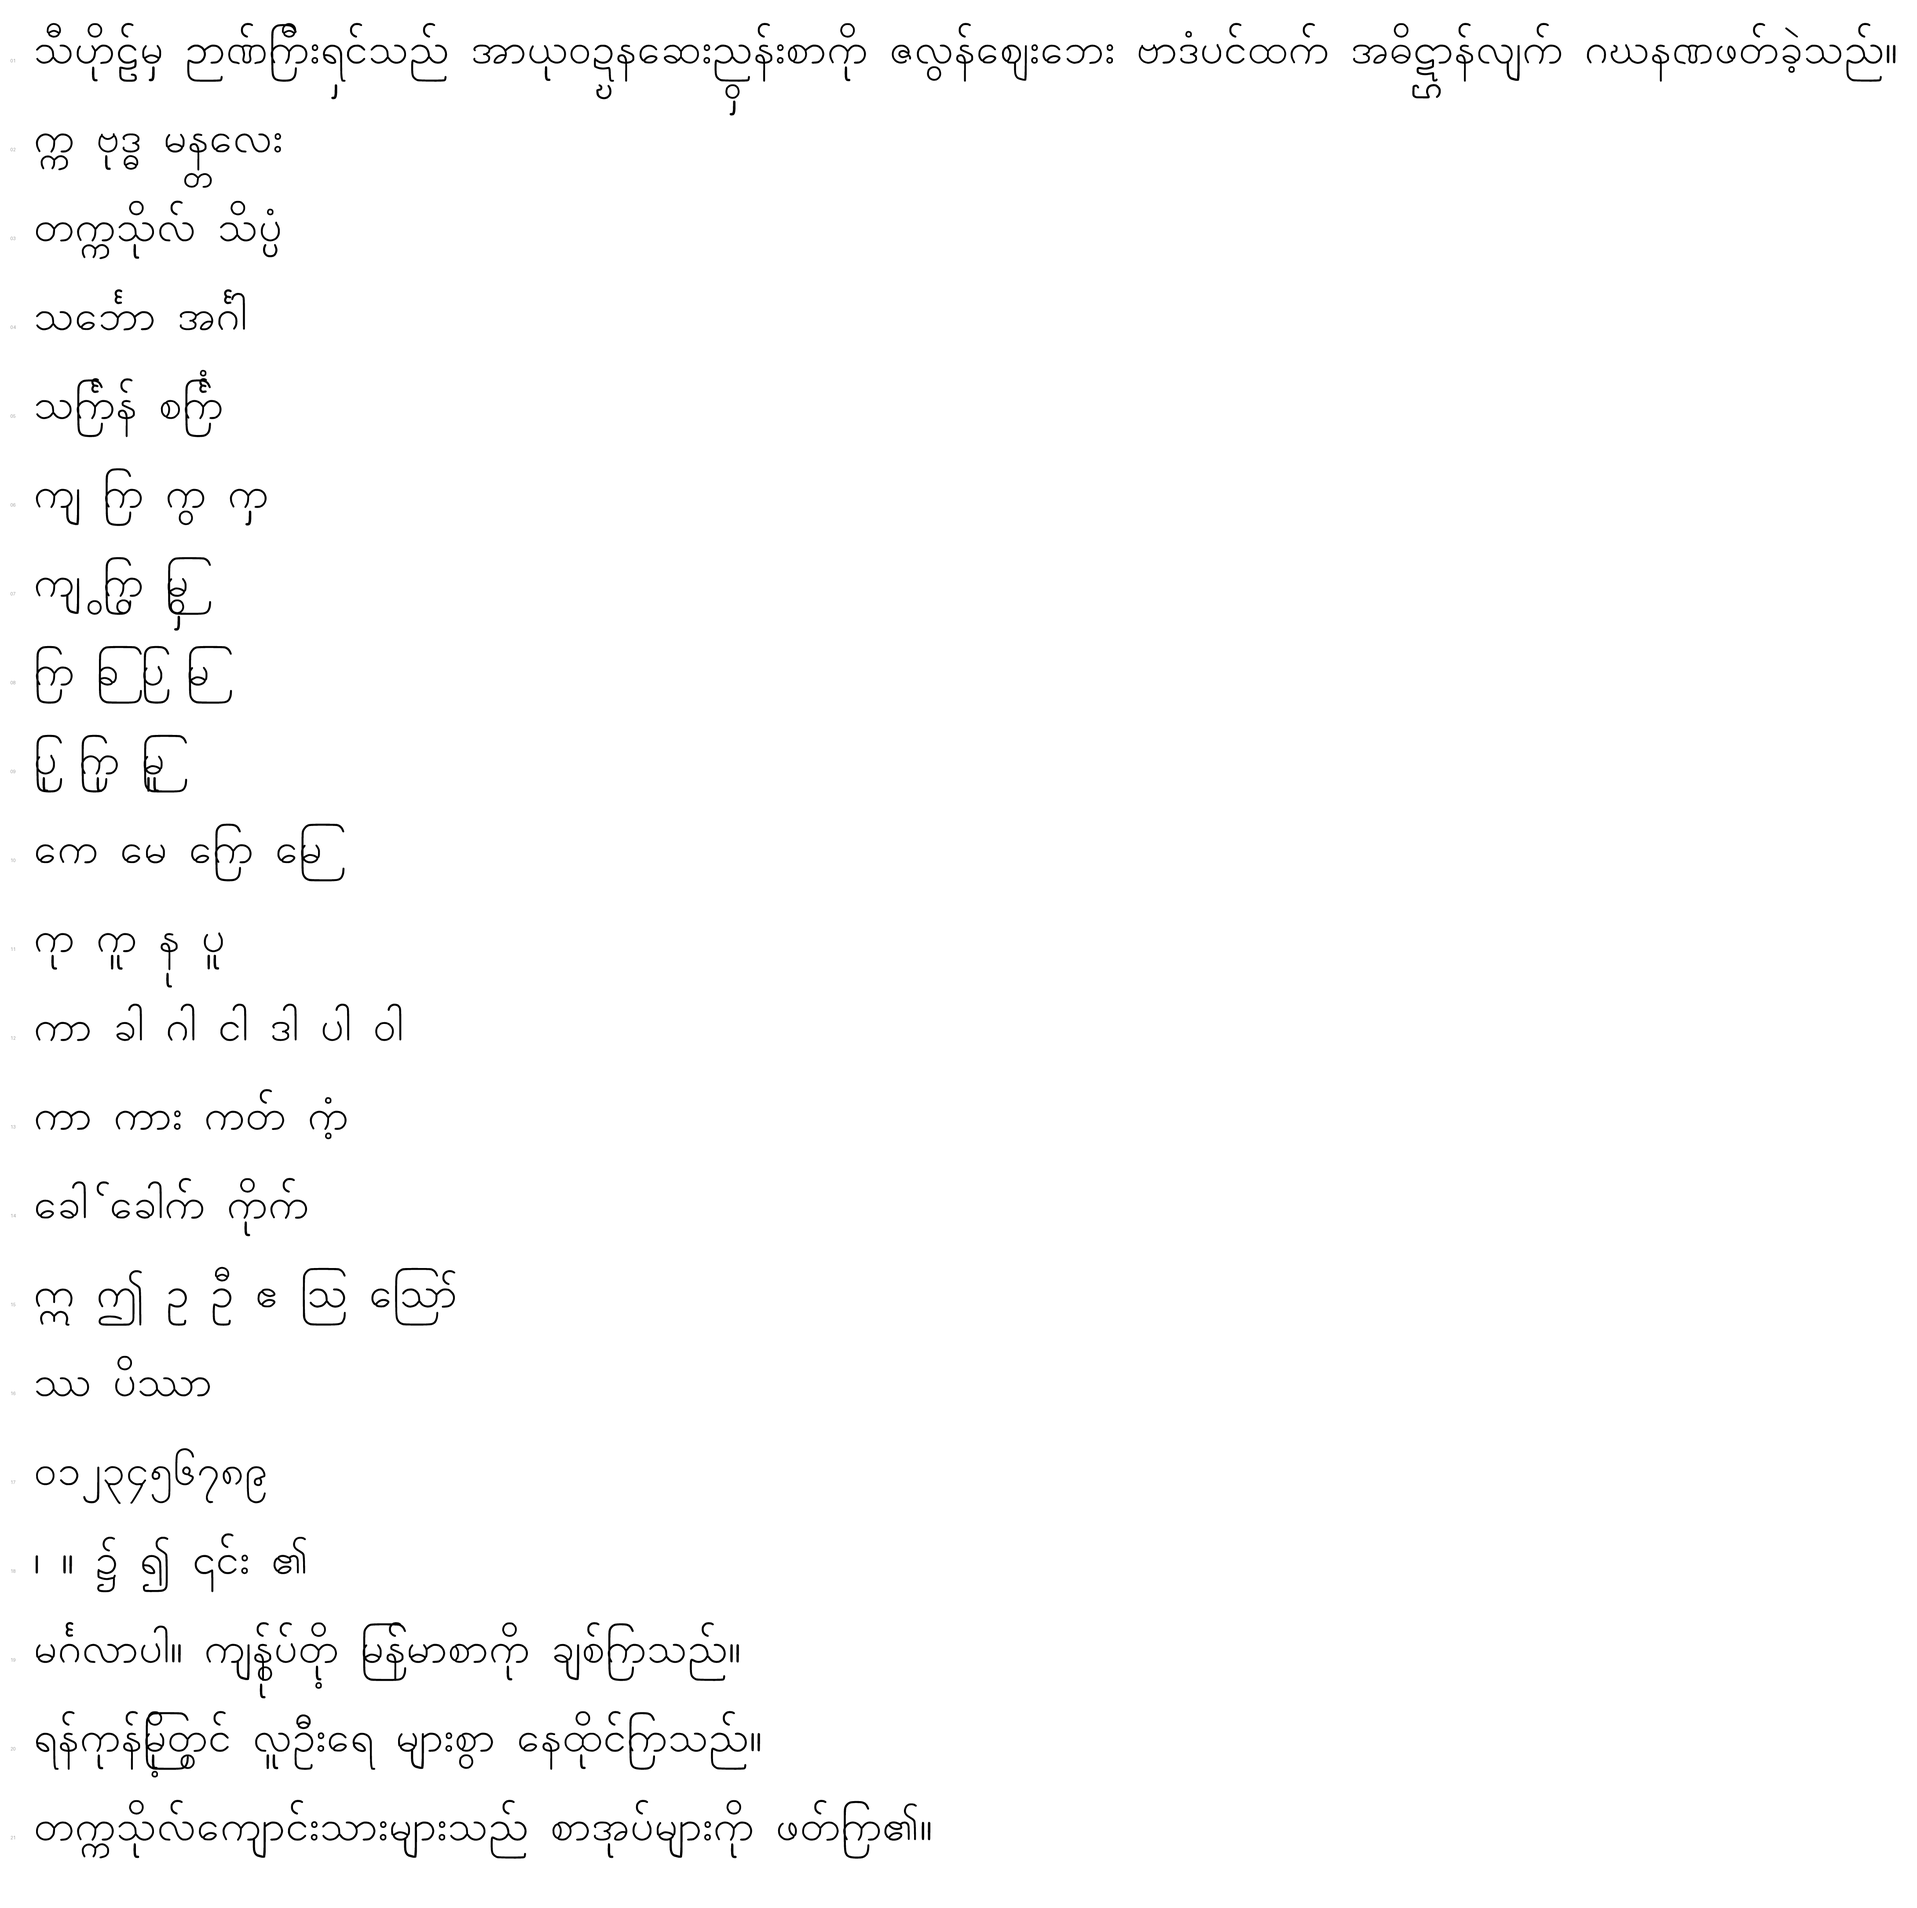
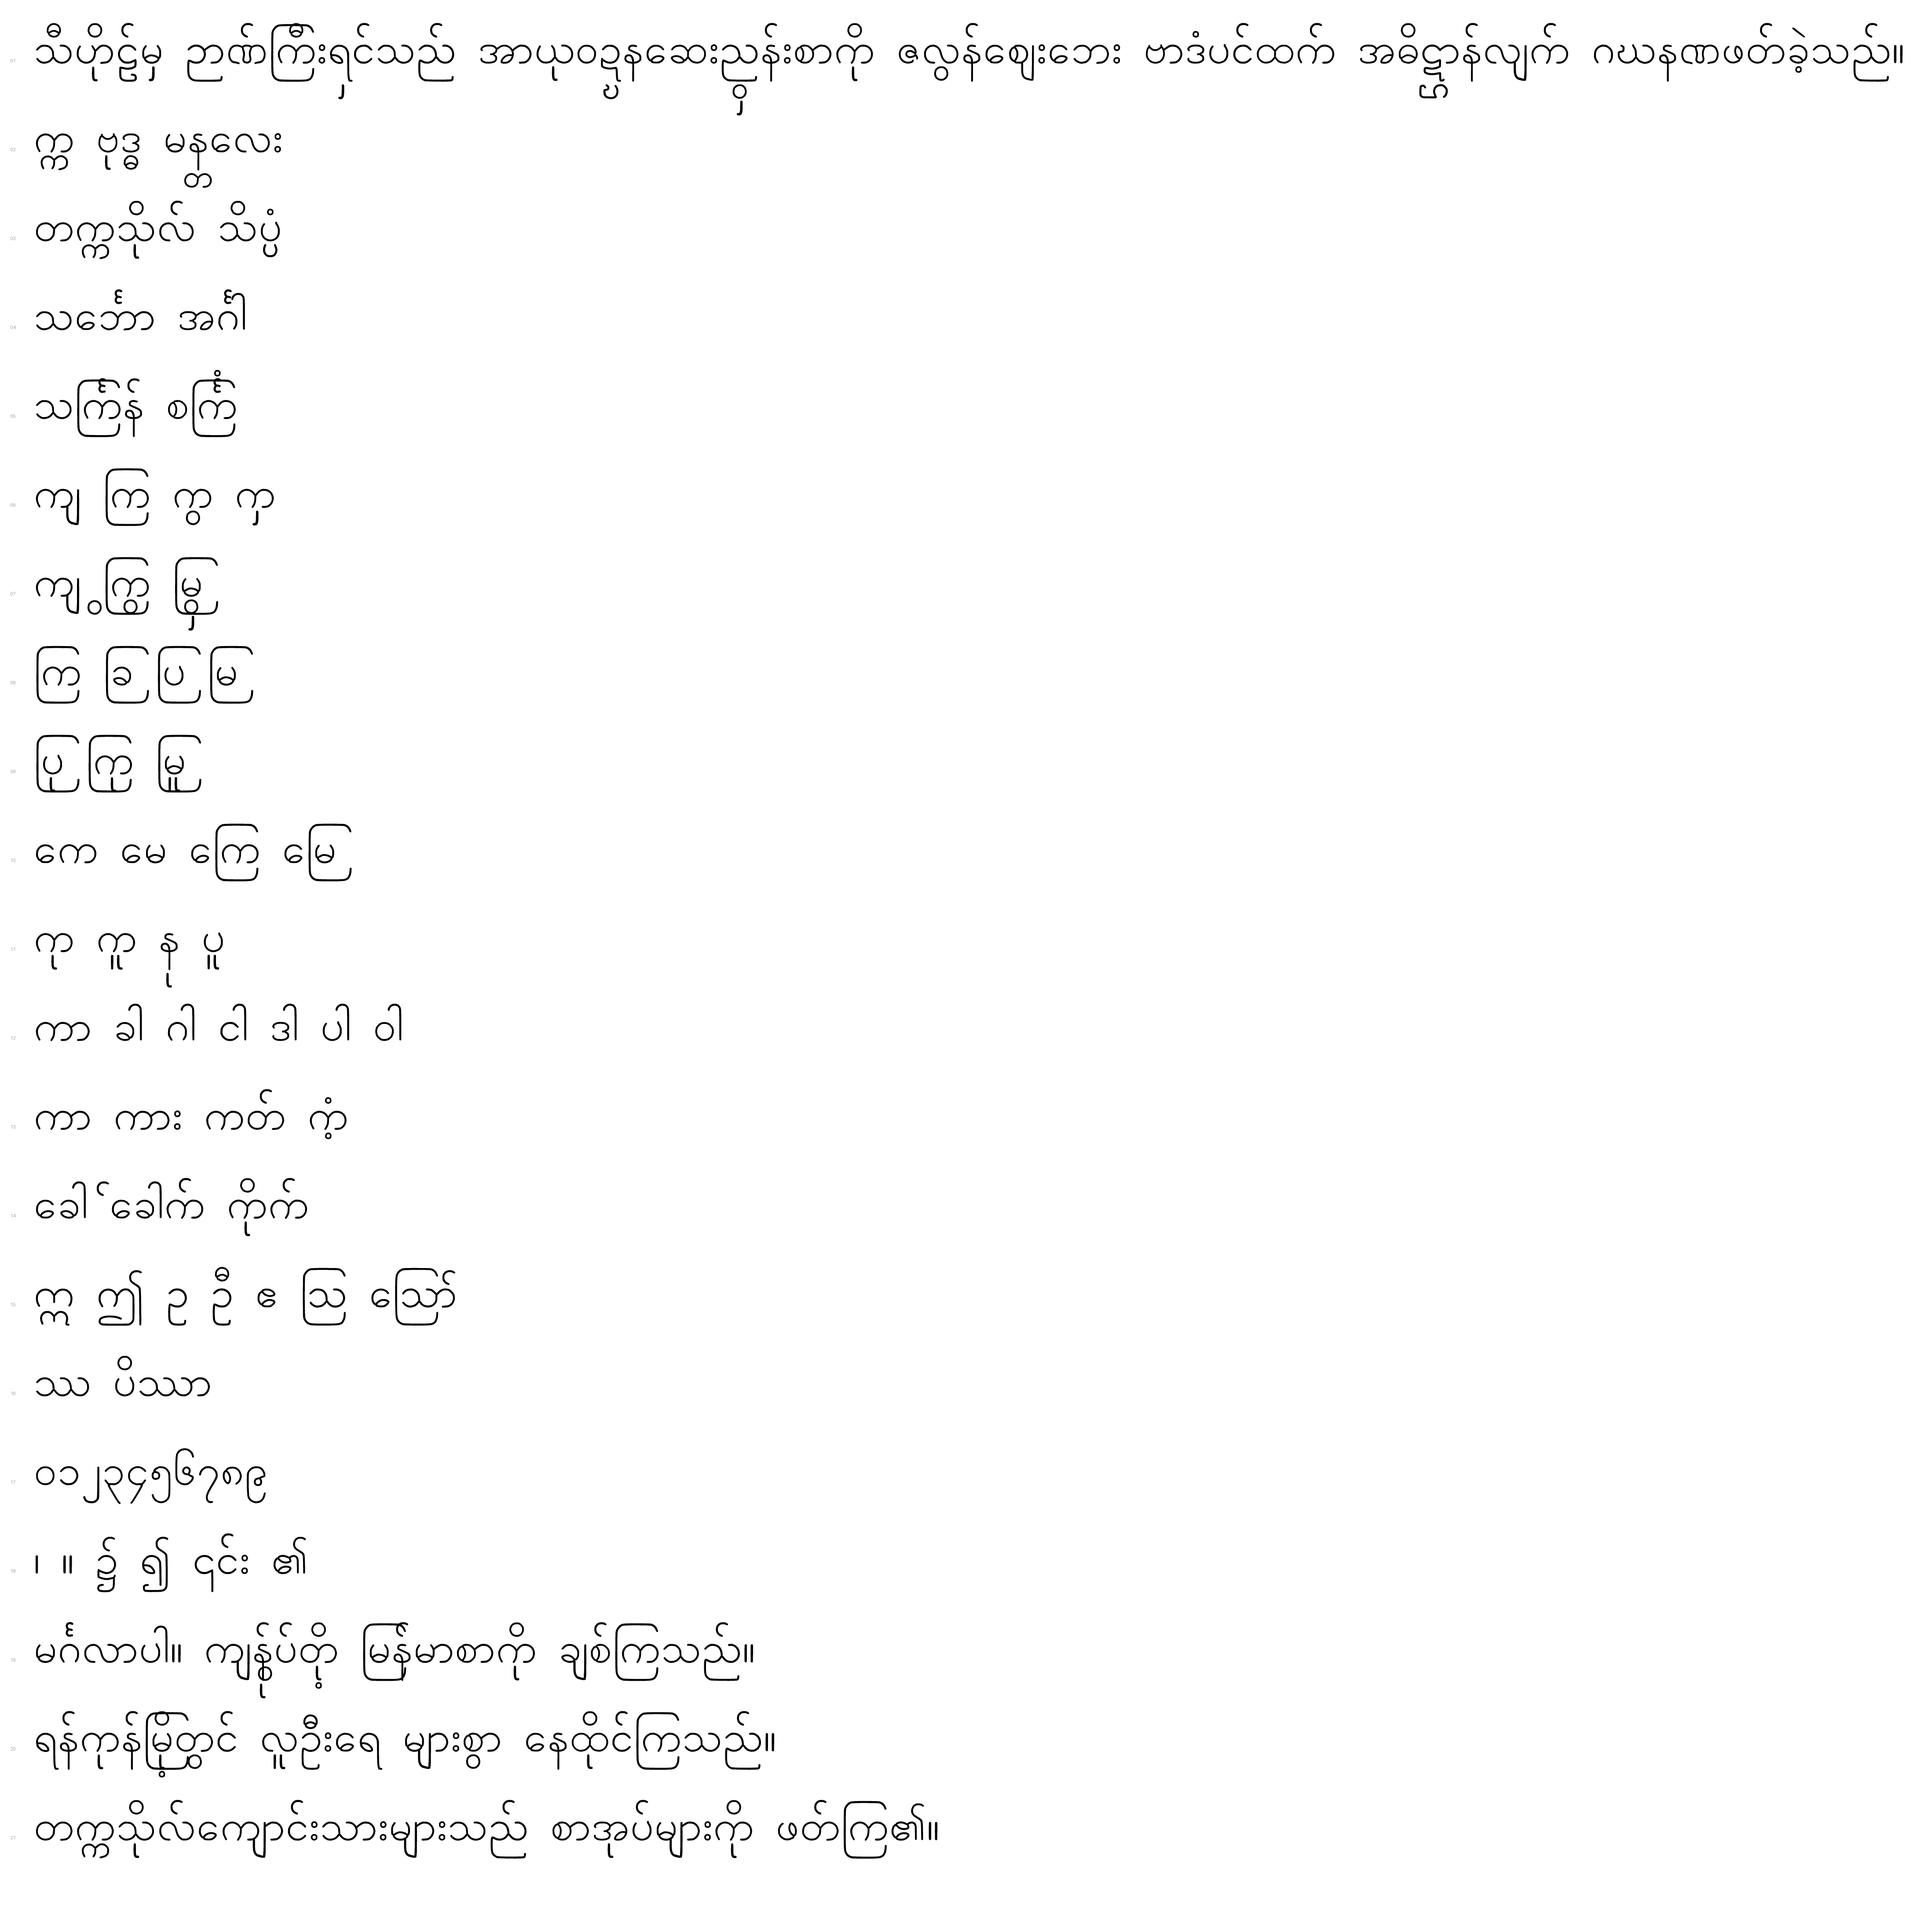
Fix broken medial-ra rendering: the base fell outside the wrap
Reported against the gallery preview: ကြီး and မြွှေ rendered with the
consonant sitting on the wrap's left stem and the vowel sign stranded on
the wrap's corner. Three compounding bugs, all in how the wrapping medial
ra ြ was treated:

1. Wrap signs were forced to zero advance. That advance is not decoration:
   it is what moves the pen past the wrap's left stem so the base lands
   INSIDE the wrap (Padauk gives U+103C 172/1024 for exactly this). With
   zero, every base stacked on top of the stem. Wrap signs now keep their
   advance, and hand-drawn projects that supply none get an estimate from
   the wrap's own proportions.

2. Wrap signs were then classified as GDEF marks — which looked right, and
   is what Padauk does, but HarfBuzz zeroes the advance of GDEF marks, so
   it silently reintroduced bug 1. They are spacing glyphs and are now
   classified as bases.

3. The `pres` rule that swaps in the wide wrap used a hard-coded list of
   "wide" letters that did not include ka, so ကြ chose the narrow wrap and
   က overflowed it — which is what pushed the vowel onto the corner.
   Whether a letter fits is a property of the drawing, not of the script,
   so it is now MEASURED: a base needs the wide wrap when its ink ends
   past the wrap's reach. For Myanmar Glyph Sans that selects 113 bases,
   ka included.

Verified against Padauk with HarfBuzz: identical advances (168 / 979 /
254) and the vowel now sits over the consonant inside the wrap. Both
[…]

diff --git a/pipeline/json_to_ufo.py b/pipeline/json_to_ufo.py
@@ -126,10 +126,15 @@ BOTTOM_MARKS = {
 
 BASE_NAMES = {f"{n}-myanmar" for _, n in CONSONANTS} | {"greatSa-myanmar"}
 
-# Signs that wrap around their base (medial ra): keep the sketched
-# coordinates (they are drawn around the guide base at the origin) and take
-# no advance — the engine draws the base into the wrap.
+# Signs that wrap around their base (medial ra). Their sketched coordinates
+# are kept as drawn, and their advance is SMALL BUT POSITIVE: it is what
+# moves the pen past the wrap's left stem so the base lands inside the
+# wrap. Zero would stack the base on top of that stem (Padauk gives U+103C
+# an advance of 172/1024 for exactly this reason).
 WRAP_SIGNS = {"medialRa-myanmar", "medialRa-myanmar.wide"}
+# fraction of the wrap's ink width that sits left of the base — only used
+# when a project supplies no advance; reproduces Padauk's proportion
+WRAP_ADVANCE_RATIO = 0.30
 
 # Anchor names the studio may store per glyph ("anchors": {name: [x, y]}).
 KNOWN_ANCHORS = {"top", "bottom", "_top", "_bottom"}
@@ -499,6 +504,9 @@ def build_ufo(project, out_dir, width_scale=1.0, style_name=None,
 
     drawn = []
     categories = {}   # glyph -> GDEF class, written as public.openTypeCategories
+    ink_right = {}    # glyph -> right edge of its ink, for the pres measurement
+    advances = {}     # glyph -> advance width
+    base_glyphs = []  # glyphs that carry top/bottom anchors
     for name, data in project.get("glyphs", {}).items():
         if name == "virama-myanmar":
             # U+1039 is invisible in rendered Burmese — ignore any sketched
@@ -550,11 +558,13 @@ def build_ufo(project, out_dir, width_scale=1.0, style_name=None,
         if cp:
             g.unicode = cp
 
-        # Non-spacing marks and the wrapping medial ra never advance the pen:
-        # the shaper positions them onto the base. A stored advance is
-        # ignored for them rather than double-spacing every syllable.
-        if is_mark or name in WRAP_SIGNS:
+        # Non-spacing marks never advance the pen: the shaper positions them
+        # onto the base, and a stored advance would double-space every
+        # syllable. Wrapping signs DO advance, just barely — see WRAP_SIGNS.
+        if is_mark:
             adv = 0
+        elif not adv and name in WRAP_SIGNS:
+            adv = max(1, round((x_max - x_min) * WRAP_ADVANCE_RATIO))
         elif not adv:
             # None, or a stored 0 on a spacing glyph that has ink: a glyph
             # with visible outlines must move the pen or it overprints its
@@ -590,6 +600,7 @@ def build_ufo(project, out_dir, width_scale=1.0, style_name=None,
                                   and is_myanmar_base):
             anchor("top", cx, max(y_max, BODY) + 40)
             anchor("bottom", cx, min(y_min, 0) - 40)
+            base_glyphs.append(name)
         elif name in TOP_MARKS:
             anchor("_top", cx, y_min - 20)
             anchor("top", cx, y_max + 20)
@@ -611,11 +622,15 @@ def build_ufo(project, out_dir, width_scale=1.0, style_name=None,
             anchor(anchor_name, 0, 0)
 
         # GDEF class: non-spacing marks are "mark", everything else "base".
-        # Stated explicitly so spacing signs (Mc: aa, medial ya, …) are not
-        # mistaken for marks by the shaper. The wrapping medial ra joins the
-        # marks — it takes no advance and the base renders inside its wrap,
-        # which is how Padauk classifies it too.
-        categories[name] = "mark" if (is_mark or name in WRAP_SIGNS) else "base"
+        # Stated explicitly so spacing signs (Mc: aa, medial ya …) are not
+        # mistaken for marks by the shaper.
+        #
+        # The wrapping medial ra must NOT be a mark here: HarfBuzz zeroes the
+        # advance of GDEF marks, and its small advance is exactly what moves
+        # the base inside the wrap.
+        categories[name] = "mark" if is_mark else "base"
+        ink_right[name] = x_max
+        advances[name] = adv
         drawn.append(name)
 
     # The blwf/rphf rules consume U+1039 VIRAMA, but the studio never asks
@@ -646,7 +661,9 @@ def build_ufo(project, out_dir, width_scale=1.0, style_name=None,
     if kerning:
         font.kerning = kerning
 
-    font.features.text = generate_features(set(drawn))
+    font.features.text = generate_features(
+        set(drawn), wide_bases=measure_wide_bases(base_glyphs, ink_right,
+                                                  advances))
 
     # PostScript production names: the friendly source names carry hyphens,
     # which are not valid in shipped glyph names. ufo2ft renames at compile
@@ -674,7 +691,28 @@ def build_ufo(project, out_dir, width_scale=1.0, style_name=None,
 # OpenType feature generation (mym2 starter rules)
 # ---------------------------------------------------------------------------
 
-def generate_features(drawn):
+def measure_wide_bases(base_glyphs, ink_right, advances):
+    """Which base letters overflow the narrow medial-ra wrap?
+
+    Medial ra ြ wraps around the letter that follows it, and the letter
+    only fits if the wrap reaches past it. Rather than hard-code which
+    letters are "wide" — which is a property of the drawing, not of the
+    script — measure it: the base sits at the wrap's advance, so it fits
+    when its ink ends before the wrap's ink does.
+
+    Returns the base glyphs that need the wide variant, or None when the
+    font has no narrow ra to compare against.
+    """
+    narrow = "medialRa-myanmar"
+    if narrow not in ink_right:
+        return None
+    wrap_reach = ink_right[narrow]
+    base_start = advances.get(narrow, 0)
+    return sorted(name for name in base_glyphs
+                  if base_start + ink_right.get(name, 0) > wrap_reach - 20)
+
+
+def generate_features(drawn, wide_bases=None):
     """Emit only rules whose glyphs were actually drawn.
 
     Rules are written before any script statement so they register under
@@ -710,13 +748,17 @@ def generate_features(drawn):
         lines.append("} rphf;")
         lines.append("")
 
-    # pres: wide medial-ra in front of wide bases
-    wide_bases = [
-        f"{n}-myanmar" for n in
-        ("kha", "gha", "ca", "cha", "jha", "nnya", "ttha", "ddha", "nna",
-         "ta", "tha", "dha", "na", "bha", "ma", "ya", "la", "sa", "ha", "a")
-        if f"{n}-myanmar" in drawn
-    ]
+    # pres: wide medial-ra in front of the bases that overflow the narrow one
+    if wide_bases is None:
+        # no measurement available — fall back to the letters that are wide
+        # in most Burmese designs
+        wide_bases = [
+            f"{n}-myanmar" for n in
+            ("ka", "kha", "gha", "ca", "cha", "jha", "nnya", "ttha", "ddha",
+             "nna", "ta", "tha", "dha", "na", "bha", "ma", "ya", "la", "sa",
+             "ha", "a")
+        ]
+    wide_bases = [n for n in wide_bases if n in drawn]
     if "medialRa-myanmar.wide" in drawn and "medialRa-myanmar" in drawn and wide_bases:
         lines.append(f"@WIDE_BASES = [{' '.join(wide_bases)}];")
         lines.append("feature pres {")

diff --git a/pipeline/tests/test_pipeline.py b/pipeline/tests/test_pipeline.py
@@ -78,12 +78,9 @@ def test_marks_are_zero_width_even_if_the_project_says_otherwise(tmp_path):
         "u-myanmar": {"advance": 420,
                       "strokes": [stroke([[250, -150], [350, -150]], 40)]},
         "ka-myanmar.sub": {"advance": 500, "strokes": [BOX]},
-        "medialRa-myanmar": {"advance": 300,
-                             "strokes": [stroke([[0, 600], [700, 600]], 50)]},
     })
     assert font["u-myanmar"].width == 0
     assert font["ka-myanmar.sub"].width == 0
-    assert font["medialRa-myanmar"].width == 0
 
 
 def test_spacing_sign_ink_left_aligned_when_auto(tmp_path):
@@ -106,14 +103,27 @@ def test_spacing_sign_untouched_when_advance_explicit(tmp_path):
     assert ink_x_min(font, "aa-myanmar") > 500  # ink kept where drawn
 
 
-def test_wrap_sign_keeps_coordinates_and_zero_advance(tmp_path):
+def test_wrap_sign_keeps_coordinates_and_a_small_advance(tmp_path):
+    """Medial ra wraps around its base: the advance must clear the wrap's
+    left stem so the base lands INSIDE the wrap — zero would stack the base
+    on top of the stem, and a full-width advance would push it outside."""
     font, _ = build(tmp_path, {
         "medialRa-myanmar": {"advance": None,
                              "strokes": [stroke([[0, 600], [700, 600],
                                                  [700, -100]], 50)]},
     })
-    assert font["medialRa-myanmar"].width == 0
+    width = font["medialRa-myanmar"].width
+    assert 0 < width < 400          # small, but not zero
     assert ink_x_min(font, "medialRa-myanmar") < 0  # not re-aligned
+
+
+def test_wrap_sign_honours_a_stored_advance(tmp_path):
+    font, _ = build(tmp_path, {
+        "medialRa-myanmar": {"advance": 168,
+                             "strokes": [stroke([[94, 600], [654, 600],
+                                                 [654, -100]], 50)]},
+    })
+    assert font["medialRa-myanmar"].width == 168
 
 
 def test_virama_ink_ignored_and_synthesized_empty(tmp_path):
